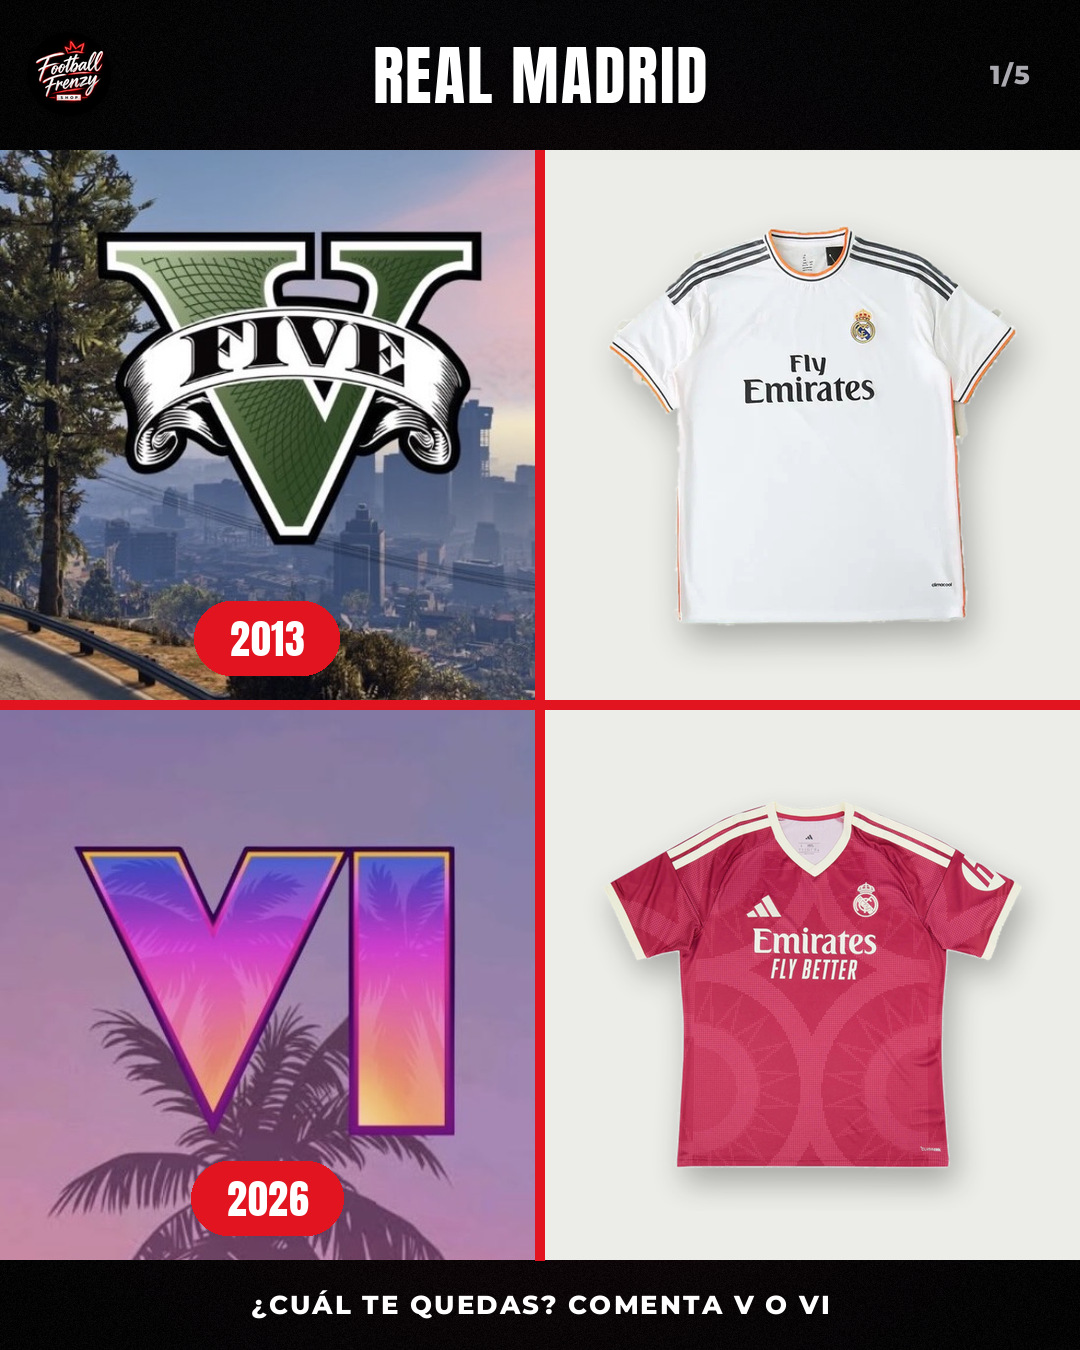
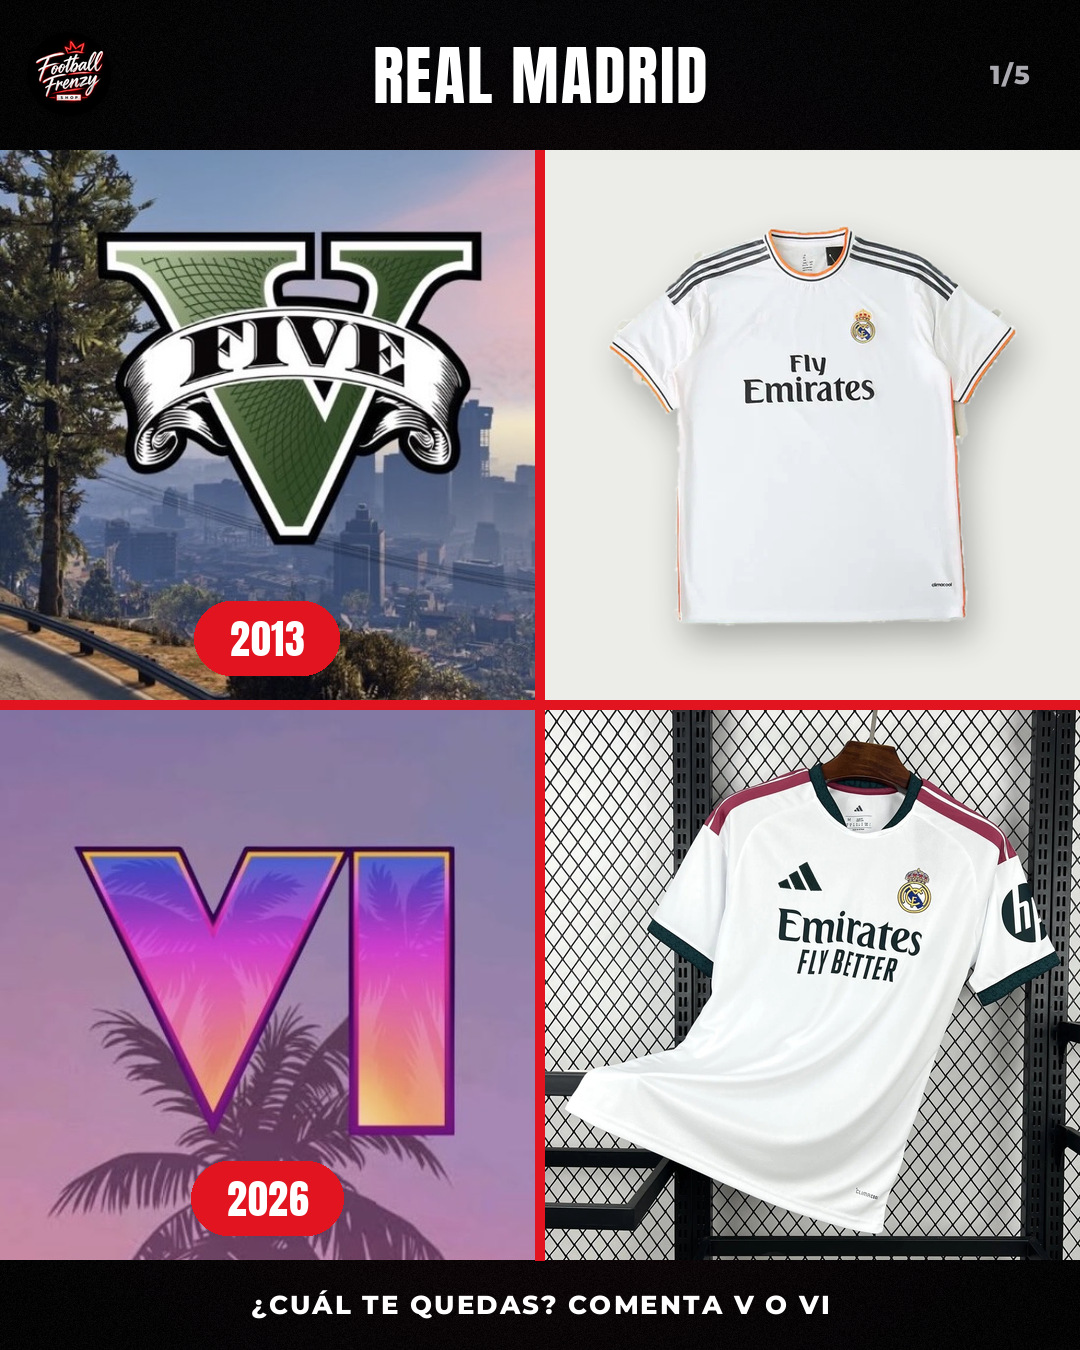
Carrusel GTA: Real Madrid local 26/27 en la slide 1
Claude-Session: https://claude.ai/code/session_01Y3XEkftw7SELToetvsGNVM

Changed region(s): [[0.4889, 0.5289, 1.0, 0.9333]]

diff --git a/ads/carrusel_gta.py b/ads/carrusel_gta.py
@@ -13,7 +13,7 @@ from buenfin_2da50 import red, white, pill, RED, GREY, WHITE
 OUT = g.HERE + "out/carrusel_gta/"
 W, H = 1080, 1350
 PAIRS = [  # (club, antes, ahora)
-    ("REAL MADRID", "cl_rm_1314.png", "cl_rm_third26.png"),
+    ("REAL MADRID", "cl_rm_1314.png", "rm_home26_foto.jpg"),
     ("FC BARCELONA", "fcb_1415_home.png", "cl_fcb_home26.png"),
     ("CLUB AMÉRICA", "viejo/ame1213.png", "america110.png"),
     ("REAL MADRID VISITA", "cl_rm_1213away.png", "cl_rm_away26.png"),
@@ -59,6 +59,9 @@ def era_tile_text(year, roman, caption):
 
 
 def jersey_tile(name):
+    if name.endswith(".jpg"):                          # real product photo: fill the cell
+        im = Image.open(g.SRC + name).convert("RGB").crop((130, 40, 1930, 1890))
+        return im.resize((CW, CH), Image.LANCZOS).convert("RGBA")
     t = Image.new("RGBA", (CW, CH), (236, 236, 232, 255))
     j = jersey(name, int(CH * 0.8), 0, dark=False)
     j.thumbnail((CW - 30, CH - 20), Image.LANCZOS)
